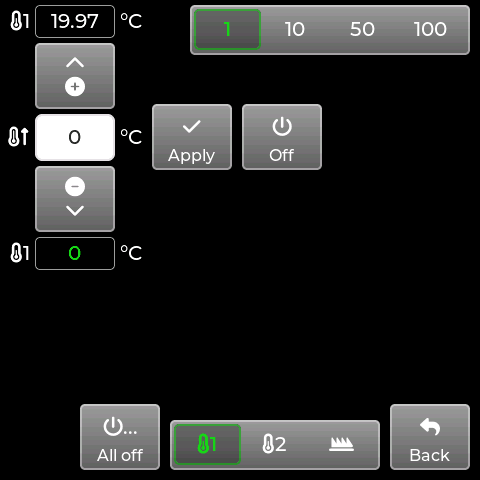
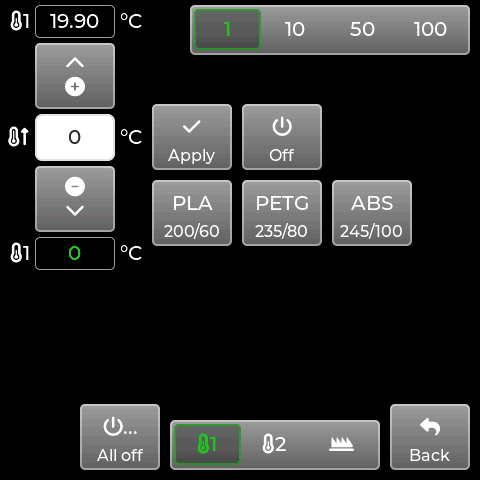
Add preheat presets to the temperatures screen
- Three Marlin settings, "name,hotend,bed" (keys appended after the screen
  settings): PLA 200/60, PETG 235/80, ABS 245/100 by default. Validated by
  esp3d_parse_preheat_preset() (name 1-8 chars, hotend 0-300, bed 0-150),
  so the settings screen and [ESP401] both reject bad values.
- On resolutions with ESP3D_PREHEAT_PRESETS (480x480 Marlin), a row of
  preset buttons under Apply/Off: name as the label, "hotend/bed" as the
  caption. A tap sends M104 T<selected extruder, or 0 for the bed> and
  M140, and shows "Preheating <name>" in the status bar.
- Settings screen rows "Preset 1..3" with the text editor.
- docs/preheat-presets.md.

Verified on the Guition 4848S040 with the Marlin simulator: tapping PLA
sends "M104 T0 S200" and "M140 S60" and the target shows 200; preset 3
changed to TPU,220,50 over [ESP401] shows on the screen; 999 C, an
11-char name and ';' separators are rejected. ESP32S3_8048S043C and the
GRBL flavour of ESP32S3_4848S040C still build.

Changed region(s): [[0.3125, 0.375, 0.875, 0.5312], [0.0938, 0.0312, 0.2188, 0.0625]]

diff --git a/main/display/3dprinter/marlin/screens/settings_screen.cpp b/main/display/3dprinter/marlin/screens/settings_screen.cpp
@@ -70,6 +70,20 @@ lv_obj_t *serial_baud_rate_label = NULL;
 lv_obj_t *usb_serial_baud_rate_label = NULL;
 lv_obj_t *jog_type_label = NULL;
 lv_obj_t *polling_label = NULL;
+#if ESP3D_PREHEAT_PRESETS
+#include "esp3d_preheat.h"
+static const ESP3DSettingIndex preheat_setting_index[ESP3D_PREHEAT_PRESET_COUNT] =
+    {ESP3DSettingIndex::esp3d_preheat_1, ESP3DSettingIndex::esp3d_preheat_2,
+     ESP3DSettingIndex::esp3d_preheat_3};
+lv_obj_t *preheat_labels[ESP3D_PREHEAT_PRESET_COUNT] = {NULL};
+
+static int preheat_index(ESP3DSettingIndex index) {
+  for (int i = 0; i < ESP3D_PREHEAT_PRESET_COUNT; i++) {
+    if (preheat_setting_index[i] == index) return i;
+  }
+  return -1;
+}
+#endif  // ESP3D_PREHEAT_PRESETS
 #if ESP3D_SCREEN_POWER_SETTINGS
 lv_obj_t *screen_brightness_label = NULL;
 lv_obj_t *screen_sleep_label = NULL;
@@ -419,6 +433,13 @@ void setting_edit_done_cb(const char *str, void *data) {
               case ESP3DSettingIndex::esp3d_hostname:
                 // use string as it is
                 break;
+#if ESP3D_PREHEAT_PRESETS
+              case ESP3DSettingIndex::esp3d_preheat_1:
+              case ESP3DSettingIndex::esp3d_preheat_2:
+              case ESP3DSettingIndex::esp3d_preheat_3:
+                // validated as "name,hotend,bed"
+                break;
+#endif  // ESP3D_PREHEAT_PRESETS
               case ESP3DSettingIndex::esp3d_bed_width:
               case ESP3DSettingIndex::esp3d_bed_depth:
                 val_string = esp3d_string::set_precision(str, 2);
@@ -662,6 +683,16 @@ void event_button_edit_setting_cb(lv_event_t *e) {
       data.label = hostname_label;
       title = esp3dTranslationService.translate(ESP3DLabel::hostname);
       break;
+#if ESP3D_PREHEAT_PRESETS
+    case ESP3DSettingIndex::esp3d_preheat_1:
+    case ESP3DSettingIndex::esp3d_preheat_2:
+    case ESP3DSettingIndex::esp3d_preheat_3: {
+      int i = preheat_index(data.index);
+      data.label = preheat_labels[i];
+      title = esp3dTranslationService.translate(
+          ESP3DLabel::preheat_preset, std::to_string(i + 1).c_str());
+    } break;
+#endif  // ESP3D_PREHEAT_PRESETS
     case ESP3DSettingIndex::esp3d_bed_width:
       data.label = bed_width_label;
       title = esp3dTranslationService.translate(ESP3DLabel::bed_width);
@@ -714,6 +745,15 @@ void event_button_edit_setting_cb(lv_event_t *e) {
                              setting_edit_done_cb, settingPtr->size, NULL,
                              false, (void *)(&data));
           break;
+#if ESP3D_PREHEAT_PRESETS
+        case ESP3DSettingIndex::esp3d_preheat_1:
+        case ESP3DSettingIndex::esp3d_preheat_2:
+        case ESP3DSettingIndex::esp3d_preheat_3:
+          textEditor::create(lv_scr_act(), data.value.c_str(),
+                             setting_edit_done_cb, settingPtr->size, NULL,
+                             false, (void *)(&data));
+          break;
+#endif  // ESP3D_PREHEAT_PRESETS
         case ESP3DSettingIndex::esp3d_bed_width:
         case ESP3DSettingIndex::esp3d_bed_depth:
           textEditor::create(lv_scr_act(), data.value.c_str(),
@@ -1042,6 +1082,32 @@ void create() {
     }
   }
 #endif  // ESP3D_SCREEN_POWER_SETTINGS
+
+#if ESP3D_PREHEAT_PRESETS
+  // Preheat presets: "name,hotend,bed"
+  for (int i = 0; i < ESP3D_PREHEAT_PRESET_COUNT; i++) {
+    line_container = listLine::create(ui_settings_list_ctl);
+    if (!lv_obj_is_valid(line_container)) {
+      esp3d_log_e("Failed to create line container");
+      return;
+    }
+    LabelStr = esp3dTranslationService.translate(
+        ESP3DLabel::preheat_preset, std::to_string(i + 1).c_str());
+    listLine::add_label(LabelStr.c_str(), line_container, true);
+    const ESP3DSettingDescription *presetPtr =
+        esp3dTftsettings.getSettingPtr(preheat_setting_index[i]);
+    if (presetPtr) {
+      char out_str[SIZE_OF_PREHEAT_PRESET + 1] = {0};
+      std::string value = esp3dTftsettings.readString(
+          preheat_setting_index[i], out_str, SIZE_OF_PREHEAT_PRESET);
+      preheat_labels[i] =
+          listLine::add_label(value.c_str(), line_container, true);
+      lv_obj_t *btnEdit = listLine::add_button(LV_SYMBOL_EDIT, line_container);
+      lv_obj_add_event_cb(btnEdit, event_button_edit_setting_cb,
+                          LV_EVENT_CLICKED, (void *)(&(presetPtr->index)));
+    }
+  }
+#endif  // ESP3D_PREHEAT_PRESETS
 
   // JSON
   //  show fan controls

diff --git a/main/display/3dprinter/marlin/screens/temperatures_screen.cpp b/main/display/3dprinter/marlin/screens/temperatures_screen.cpp
@@ -33,6 +33,11 @@
 #include "screens/filament_screen.h"
 #include "screens/main_screen.h"
 #include "translations/esp3d_translation_service.h"
+#if ESP3D_PREHEAT_PRESETS
+#include "esp3d_preheat.h"
+#include "esp3d_settings.h"
+#include "esp3d_values.h"
+#endif  // ESP3D_PREHEAT_PRESETS
 
 /**********************
  *  Namespace
@@ -396,6 +401,46 @@ void temperatures_btn_down_event_cb(lv_event_t *e) {
  *
  * @param e The event object containing information about the event.
  */
+#if ESP3D_PREHEAT_PRESETS
+#if !ESP3D_BUTTON_CAPTIONS
+#error "ESP3D_PREHEAT_PRESETS needs ESP3D_BUTTON_CAPTIONS for the temperatures"
+#endif
+static const ESP3DSettingIndex preheat_settings[ESP3D_PREHEAT_PRESET_COUNT] = {
+    ESP3DSettingIndex::esp3d_preheat_1, ESP3DSettingIndex::esp3d_preheat_2,
+    ESP3DSettingIndex::esp3d_preheat_3};
+
+static bool read_preheat_preset(uint8_t index, ESP3DPreheatPreset &preset) {
+  if (index >= ESP3D_PREHEAT_PRESET_COUNT) return false;
+  char buffer[SIZE_OF_PREHEAT_PRESET + 1] = {0};
+  const char *value = esp3dTftsettings.readString(
+      preheat_settings[index], buffer, SIZE_OF_PREHEAT_PRESET);
+  return esp3d_parse_preheat_preset(value, preset);
+}
+
+/**
+ * @brief Preheat preset button: set the selected extruder (extruder 0 when
+ * the bed is selected) and the bed to the preset temperatures.
+ */
+static void temperatures_btn_preheat_event_cb(lv_event_t *e) {
+  uint8_t index = (uint8_t)(uintptr_t)lv_event_get_user_data(e);
+  ESP3DPreheatPreset preset;
+  if (!read_preheat_preset(index, preset)) {
+    esp3d_log_e("Invalid preheat preset %d", index);
+    return;
+  }
+  uint8_t target = get_heater_buttons_map_id(heater_buttons_map_id);
+  std::string gcode = "M104 T" + std::to_string(target == 1 ? 1 : 0) + " S" +
+                      std::to_string(preset.hotend);
+  renderingClient.sendGcode(gcode.c_str());
+  gcode = "M140 S" + std::to_string(preset.bed);
+  renderingClient.sendGcode(gcode.c_str());
+  esp3dTftValues.set_string_value(
+      ESP3DValuesIndex::status_bar_label,
+      esp3dTranslationService.translate(ESP3DLabel::preheating,
+                                        preset.name.c_str()));
+}
+#endif  // ESP3D_PREHEAT_PRESETS
+
 void temperatures_btn_ok_event_cb(lv_event_t *e) {
   lv_obj_t *temperatures_ta = (lv_obj_t *)lv_event_get_user_data(e);
   std::string temperatures_value = lv_textarea_get_text(temperatures_ta);
@@ -809,6 +854,35 @@ void create(uint8_t target, ESP3DScreenType screenreturn) {
   ESP3D_SET_CAPTION(btn_stop, caption_off);
   lv_obj_add_event_cb(btn_stop, temperatures_btn_power_off_event_cb,
                       LV_EVENT_CLICKED, temperatures_ta);
+#if ESP3D_PREHEAT_PRESETS
+  // Preheat presets, in a row under Apply / Off
+  lv_obj_t *previous_preset = nullptr;
+  for (uint8_t i = 0; i < ESP3D_PREHEAT_PRESET_COUNT; i++) {
+    ESP3DPreheatPreset preset;
+    if (!read_preheat_preset(i, preset)) {
+      continue;
+    }
+    lv_obj_t *btn_preset = symbolButton::create(ui_new_screen,
+                                                preset.name.c_str());
+    if (!lv_obj_is_valid(btn_preset)) {
+      esp3d_log_e("Failed to create preheat button");
+      break;
+    }
+    if (previous_preset == nullptr) {
+      lv_obj_align_to(btn_preset, btn_set, LV_ALIGN_OUT_BOTTOM_LEFT, 0,
+                      ESP3D_BUTTON_PRESSED_OUTLINE);
+    } else {
+      lv_obj_align_to(btn_preset, previous_preset, LV_ALIGN_OUT_RIGHT_MID,
+                      ESP3D_BUTTON_PRESSED_OUTLINE, 0);
+    }
+    std::string temperatures =
+        std::to_string(preset.hotend) + "/" + std::to_string(preset.bed);
+    symbolButton::setCaption(btn_preset, temperatures.c_str());
+    lv_obj_add_event_cb(btn_preset, temperatures_btn_preheat_event_cb,
+                        LV_EVENT_CLICKED, (void *)(uintptr_t)i);
+    previous_preset = btn_preset;
+  }
+#endif  // ESP3D_PREHEAT_PRESETS
   // Keyboard
   lv_obj_t *temperatures_kb = lv_keyboard_create(ui_new_screen);
   if (!lv_obj_is_valid(temperatures_kb)) {

diff --git a/main/target/3dprinter/marlin/esp3d_preheat.h b/main/target/3dprinter/marlin/esp3d_preheat.h
@@ -1,0 +1,71 @@
+/*
+  esp3d_preheat.h - preheat presets ("name,hotend,bed")
+
+  This code is free software; you can redistribute it and/or
+  modify it under the terms of the GNU Lesser General Public
+  License as published by the Free Software Foundation; either
+  version 2.1 of the License, or (at your option) any later version.
+
+  This code is distributed in the hope that it will be useful,
+  but WITHOUT ANY WARRANTY; without even the implied warranty of
+  MERCHANTABILITY or FITNESS FOR A PARTICULAR PURPOSE.  See the GNU
+  Lesser General Public License for more details.
+*/
+
+#pragma once
+
+#include <stdlib.h>
+#include <string.h>
+
+#include <string>
+
+#define ESP3D_PREHEAT_PRESET_COUNT 3
+#define ESP3D_PREHEAT_NAME_MAX 8
+#define ESP3D_PREHEAT_HOTEND_MAX 300
+#define ESP3D_PREHEAT_BED_MAX 150
+#define SIZE_OF_PREHEAT_PRESET 24
+
+struct ESP3DPreheatPreset {
+  std::string name;
+  int hotend = 0;
+  int bed = 0;
+};
+
+// Parse "PLA,200,60" (spaces around fields allowed). Returns false if the
+// format or a value is out of range.
+inline bool esp3d_parse_preheat_preset(const char *text,
+                                       ESP3DPreheatPreset &preset) {
+  if (text == nullptr) return false;
+  std::string s(text);
+  size_t c1 = s.find(',');
+  size_t c2 = (c1 == std::string::npos) ? c1 : s.find(',', c1 + 1);
+  if (c1 == std::string::npos || c2 == std::string::npos ||
+      s.find(',', c2 + 1) != std::string::npos) {
+    return false;
+  }
+  auto trim = [](std::string v) {
+    size_t b = v.find_first_not_of(' ');
+    size_t e = v.find_last_not_of(' ');
+    return (b == std::string::npos) ? std::string() : v.substr(b, e - b + 1);
+  };
+  auto to_int = [](const std::string &v, int &out) {
+    if (v.empty() || v.size() > 3) return false;
+    for (char ch : v) {
+      if (ch < '0' || ch > '9') return false;
+    }
+    out = atoi(v.c_str());
+    return true;
+  };
+  std::string name = trim(s.substr(0, c1));
+  int hotend = 0, bed = 0;
+  if (name.empty() || name.size() > ESP3D_PREHEAT_NAME_MAX ||
+      !to_int(trim(s.substr(c1 + 1, c2 - c1 - 1)), hotend) ||
+      !to_int(trim(s.substr(c2 + 1)), bed) ||
+      hotend > ESP3D_PREHEAT_HOTEND_MAX || bed > ESP3D_PREHEAT_BED_MAX) {
+    return false;
+  }
+  preset.name = name;
+  preset.hotend = hotend;
+  preset.bed = bed;
+  return true;
+}

diff --git a/main/target/3dprinter/marlin/esp3d_settings.cpp b/main/target/3dprinter/marlin/esp3d_settings.cpp
@@ -20,6 +20,8 @@
 */
 #include "esp3d_settings.h"
 
+#include "esp3d_preheat.h"
+
 #include "nvs_flash.h"
 #include "nvs_handle.hpp"
 
@@ -181,6 +183,12 @@ const ESP3DSettingDescription ESP3DSettingsData[] = {
     {ESP3DSettingIndex::esp3d_screen_brightness, ESP3DSettingType::byte_t, 1,
      "100"},
     {ESP3DSettingIndex::esp3d_screen_sleep, ESP3DSettingType::byte_t, 1, "0"},
+    {ESP3DSettingIndex::esp3d_preheat_1, ESP3DSettingType::string_t,
+     SIZE_OF_PREHEAT_PRESET, "PLA,200,60"},
+    {ESP3DSettingIndex::esp3d_preheat_2, ESP3DSettingType::string_t,
+     SIZE_OF_PREHEAT_PRESET, "PETG,235,80"},
+    {ESP3DSettingIndex::esp3d_preheat_3, ESP3DSettingType::string_t,
+     SIZE_OF_PREHEAT_PRESET, "ABS,245,100"},
 #endif  // ESP3D_DISPLAY_FEATURE
     {ESP3DSettingIndex::esp3d_stop_script, ESP3DSettingType::string_t,
      SIZE_OF_SCRIPT, ""},
@@ -253,6 +261,14 @@ bool ESP3DSettings::isValidStringSetting(const char* value,
     }
   }
   switch (settingElement) {
+#if ESP3D_DISPLAY_FEATURE
+    case ESP3DSettingIndex::esp3d_preheat_1:
+    case ESP3DSettingIndex::esp3d_preheat_2:
+    case ESP3DSettingIndex::esp3d_preheat_3: {
+      ESP3DPreheatPreset preset;
+      return esp3d_parse_preheat_preset(value, preset);
+    }
+#endif  // ESP3D_DISPLAY_FEATURE
 #if ESP3D_TIMESTAMP_FEATURE
     case ESP3DSettingIndex::esp3d_timezone:
       if (len != settingPtr->size - 1) {

diff --git a/main/target/3dprinter/marlin/esp3d_settings.h b/main/target/3dprinter/marlin/esp3d_settings.h
@@ -108,6 +108,9 @@ enum class ESP3DSettingIndex : uint16_t {
   esp3d_webdav_on,
   esp3d_screen_brightness,  // backlight %, if the board supports it
   esp3d_screen_sleep,       // minutes of inactivity before the screen sleeps
+  esp3d_preheat_1,          // preheat presets: "name,hotend,bed"
+  esp3d_preheat_2,
+  esp3d_preheat_3,
   unknown_index
 };
 

diff --git a/main/display/3dprinter/marlin/res_480_480/esp3d_styles_res.h b/main/display/3dprinter/marlin/res_480_480/esp3d_styles_res.h
@@ -28,6 +28,9 @@
 #define ESP3D_BUTTON_CAPTION_FONT (&lv_font_montserrat_16)
 #define ESP3D_BUTTON_CAPTION_GAP 2
 
+// Preheat preset buttons on the temperatures screen (needs captions)
+#define ESP3D_PREHEAT_PRESETS 1
+
 // Back button size
 #define ESP3D_BACK_BUTTON_WIDTH 80
 #define ESP3D_BACK_BUTTON_HEIGHT 66

diff --git a/main/target/3dprinter/marlin/esp3d_translations_init.cpp b/main/target/3dprinter/marlin/esp3d_translations_init.cpp
@@ -134,5 +134,7 @@ void ESP3DTranslationService::init() {
       {ESP3DLabel::screen_sleep, "Screen sleep"},
       {ESP3DLabel::never, "Never"},
       {ESP3DLabel::minutes_value, "%s min"},
+      {ESP3DLabel::preheating, "Preheating %s"},
+      {ESP3DLabel::preheat_preset, "Preset %s"},
   };
 }

diff --git a/main/target/3dprinter/marlin/esp3d_translations_list.h b/main/target/3dprinter/marlin/esp3d_translations_list.h
@@ -131,6 +131,8 @@ enum class ESP3DLabel : uint16_t {
   screen_sleep,
   never,
   minutes_value,
+  preheating,
+  preheat_preset,
   unknown_index,  // must be last
 };
 

diff --git a/docs/preheat-presets.md b/docs/preheat-presets.md
@@ -1,0 +1,37 @@
+# Preheat presets
+
+On resolutions that enable `ESP3D_PREHEAT_PRESETS` (currently the 480x480
+Marlin UI), the temperatures screen shows three preheat buttons under
+*Apply* / *Off*. Each shows the material name with `hotend/bed` as its caption.
+
+![temperatures screen](hardware/img/4848s040-temperatures.png)
+
+A tap sets the selected extruder (extruder 0 when the bed is selected) and
+the bed:
+
+```
+M104 T0 S200
+M140 S60
+```
+
+and the status bar shows "Preheating PLA".
+
+## Editing
+
+Presets are settings in the form `name,hotend,bed` (name up to 8 characters,
+hotend 0-300 °C, bed 0-150 °C). Edit them in **Settings → Preset 1/2/3**, or
+remotely:
+
+```
+[ESP401]P=57 T=S V=PLA,200,60
+[ESP401]P=58 T=S V=PETG,235,80
+[ESP401]P=59 T=S V=TPU,220,50
+```
+
+Values outside the ranges, or not in that form, are rejected.
+
+| Preset | Default |
+| --- | --- |
+| 1 | PLA, 200 °C, 60 °C |
+| 2 | PETG, 235 °C, 80 °C |
+| 3 | ABS, 245 °C, 100 °C |
